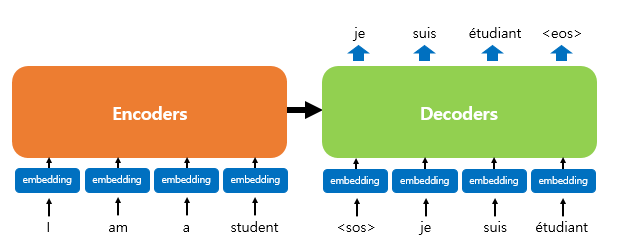
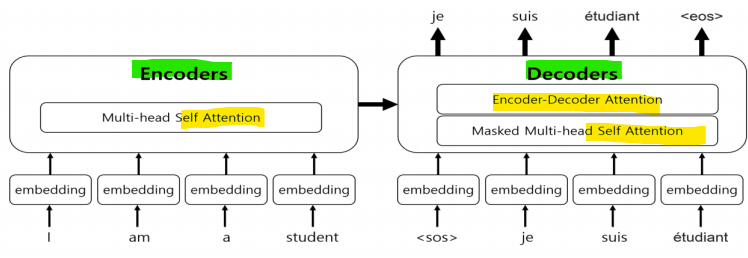
202104261651

diff --git a/note_al.js b/note_al.js
@@ -1062,8 +1062,11 @@ var answer = answer.concat(
 # 개념도 <br/>\
 <img src = "./img/ActivationFunctionOverview.png" style = "max-width:100%; height:auto;"><br/><br/>\
 # 유형 <br/>\
-<img src = "./img/ActivationFunctionOverview.png" style = "max-width:100%; height:auto;"><br/><br/>\
-<img src = "./img/ActivationFunctionOverview.png" style = "max-width:100%; height:auto;"><br/><br/>\
+1. 은닉층 <br/>\
+<img src = "./img/ActivationFunctionHiddenLayer.png" style = "max-width:100%; height:auto;"><br/><br/>\
+2. 출력층 <br/>\
+<img src = "./img/ActivationFunctionOutputLayer.png" style = "max-width:100%; height:auto;"><br/><br/>\
+<img src = "./img/ActivationFunction.png" style = "max-width:100%; height:auto;"><br/><br/>\
 * NET : 입력과 연결 강도의 가중 합 <br/>\
 - Softmax function : 0~1 결과 도출, 전체 합 1, 출력값 지수함수 적용 정규화 <br/><br/>\
 * ITPE 7회 관리 2교시 1번 \
@@ -2379,11 +2382,34 @@ var answer = answer.concat(
 ',
   
 // Transformer
-'# 정의 : 2017 Google / Attention / 인코더, 디코더 / 언어처리 모델 <br/>\
-- 2017년 구글이 발표하여 Attention 매커니즘을 사용하여 인코더, 디코더로 구현된 언어처리 모델<br/><br/>\
-# 특징 : 최근 딥러닝 언어모델 Transformer에서 파생 <br/><br/>\
-# 구성도 <br/>\
+'# 정의 : RNN 탈피 / seq2seq의 인코더, 디코더 모델 / 셀프 어텐션 구조 / 자연어 처리 모델 <br/>\
+- RNN을 탈피하고 seq2seq의 인코더-디코더 모델과 셀프 어덴션 구조만으로 구현한 자연어 처리 모델 <br/><br/>\
+# 등장배경 <br/>\
+- RNN 인코더-디코더 모델 한계 : 정보손실, 긴 문장 오류, 병렬 불가 <br/>\
+- RNN + Attention 모델 : 인코더 결과물 재참조, 연관 단어 집중, 품질 향상, RNN사용 여전히 느림 <br/>\
+- Transformer 등장 : RNN 구조 탈피, Self-Attention 매커니즘, 병렬처리 가능 <br/><br/>\
+# 특징 <br/>\
+- 2017년 구글 "All you need is Attention" <br/>\
+- RNN 보다 우수 <br/>\
+- BERT GPT 기반 <br/><br/>\
+# 개념도 <br/>\
 <img src = "./img/Transformer.png" style = "max-width:100%; height:auto;"><br/><br/>\
+# 구성도 <br/>\
+<img src = "./img/TransformerNetworkStructure.png" style = "max-width:100%; height:auto;"><br/><br/>\
+# 구성요소 <br/>\
+1. 입력 <br/>\
+- Positional Encoding : 입력단어 위치 값 추가, 사인, 코사인 함수 이용, RNN 미사용 극복 <br/><br/>\
+2. 인코더 <br/>\
+- Encoder Self-Attention : 입력 토큰 병렬, 이전 어텐션 참조 <br/>\
+- Feed Forward NN : 완전 연결망, 잔차 이용, 정규화 수행 <br/><br/>\
+3. 디코더 <br/>\
+- Masked Self-Attention : 입력 토큰 병렬, 현재 이후 단어 마스킹 <br/>\\
+- Encoder-Decoder Attention : Self Attention x, E-D 결합 <br/>\
+- Feed Foward NN : 인코더 구조와 동일 <br/><br/>\
+4. 출력 <br/>\
+- Linear Layer : 디코더 출력 벡터화 Fully Connected <br/>\
+- Softmax : 출력단어 예측 <br/><br/>\
+* ITPE 7회 관리 3교시 3번 <br/>\
 * 123회 관리 4교시 4번\
 ',
   

diff --git a/note_nw.js b/note_nw.js
@@ -2145,9 +2145,31 @@ IEEE 802.11ai: fast initial link setup, secure link setup within 100ms',
 # 유형 <br/>\
 <img src = "./img/NetworkDistributionDetail.png" style = "max-width:100%; height:auto;"><br/>\
 <img src = "./img/NetDistribution.png" style = "max-width:100%; height:auto;"><br/><br/>\
+# 문제점 <br/>\
+1. 구축/운영 문제 <br/>\
+- 물리적 : 공간 차지, 비용 상승, 신규 망 구축, 관리 비용 증가, 전환 장치 필요 <br/>\
+- 논리적 : 하드웨어 성능 필요, 가상환경 호환성 <br/>\
+- 효율성 저하 <br/>\
+- 업무 영역별 규제 획일적 적용 <br/><br/>\
+2. 산업혁신 저해 <br/>\
+- 신기술 활용 불가 <br/>\
+- 핀테크 성장 저해 <br/>\
+- 초연결 사회 역행 <br/>\
+- 데이터 활용 비효율적 <br/><br/>\
+# 해결방안 <br/>\
+1. 제도 보완 <br/>\
+- 비 중요 처리 시스템 클라우드 이관 가능 : 전자금융감독 1차 개정(2016) <br/>\
+- 금융권 클라우드 확대 방안 : 금융위 (2018) <br/>\
+- 중요 시스템 클라우드 이관 가능 : 전자금융감독 1차 개정 (2019) <br/><br/>\
+2. 구축/운영 <br/>\
+- 데이터 단위 망분리 체계 도입 : 중요도별 망분리 규제 적용 <br/>\
+- 개발 분야 망분리 제외 : 클라우드/오픈소스 활용 증대 <br/><br/>\
+3. 산업혁신 <br/>\
+- 망분리 예외 적용 : 카카오 뱅크, 금융기술 연구소 망분리 예외 인정 <br/><br/>\
 # 주요현황 <br/>\
 - 전자금융감독규정 제 15조 1항 예외적용 완화 (2020.10 시행) <br/>\
 <img src = "./img/NetDistributionCurrent.png" style = "max-width:100%; height:auto;"><br/><br/>\
+* ITPE 7회 관리 2교시 2번 <br/>\
 * 라이지움 88회 관리 1교시 4번\
 ',
   

diff --git a/note_ds.js b/note_ds.js
@@ -72,6 +72,7 @@ var question = question.concat(
 '[핀테크]- Scraping',
 '[핀테크]- API',
 '[핀테크]- QR코드 기반 결제',
+'[핀테크]- Zero Pay',
 '아바커스 프로젝트(Project Abacus)',
 '영지식 증명(Zero-knowledge Proof)',
 '[이더리움] - 스마트계약(Smart Contract)',
@@ -1692,6 +1693,18 @@ var answer = answer.concat(
 - MPM(Merchant Presented Mode) <br/>\
 - CPM(Customer Presented Mode) <br/><br/>\
 * 120회 관리 3교시 1번\
+',
+
+// Zero Pay
+'# 정의 : 카드 수수료 부담 절감 / QR 코드 이용 / 간편결제 서비스 <br/>\
+- 소상공인들의 카드 결제 수수료 부담을 줄이기 위해 QR 코드를 통해 거래하는 간편결제 서비스 <br/><br/>\
+# 특징 <br/>\
+- 수수료 : 8역 / 12억 / 초과 / 일반 -> 0 % / 0.3 % / 0.5 % / 2 % <br/>\
+- 혜택 : 40% 소득공제, 공공시설 할인 <br/><br/>\
+# 결제 프로세스 <br/>\
+1. MPM(Merchant Presented Mode) <br/>\
+2. CPM(Customer Presented Mode) <br/>\
+* ITPE 7회 관리 3교시 4번\
 ',
   
 // 아바커스 프로젝트

diff --git a/note_0.js b/note_0.js
@@ -39,5 +39,5 @@ var this_week_question =
 '초자동화','ASIL','디지털서비스 전문계약제도','ISO 25000','가설검정','DB 이상현상','Text Mining','Unix',
 
 /* ITPE 7회 */
-'데이터 댐', 'Solid - Social Linked Data','CSPM','OKR','KAMP','Computer Vision','6G','Digital Cartel','ISO 22301','회귀 분석','상관 분석','정규화','-21년 개정사항','감리 계획서, 보고서 작성 원칙','이동통신 역사','SA','NSA','6G 추진 전략','클라우드 포렌식','Activation Function',
+'데이터 댐', 'Solid - Social Linked Data','CSPM','OKR','KAMP','Computer Vision','6G','Digital Cartel','ISO 22301','회귀 분석','상관 분석','정규화','-21년 개정사항','감리 계획서, 보고서 작성 원칙','이동통신 역사','SA','NSA','6G 추진 전략','클라우드 포렌식','Activation Function','Transformer','망분리','망연계','Zero Pay',
 ];
